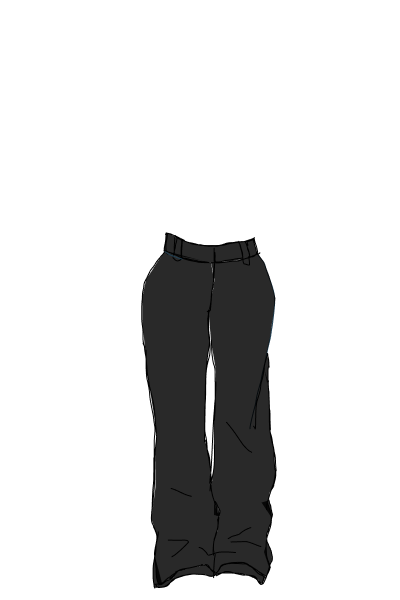
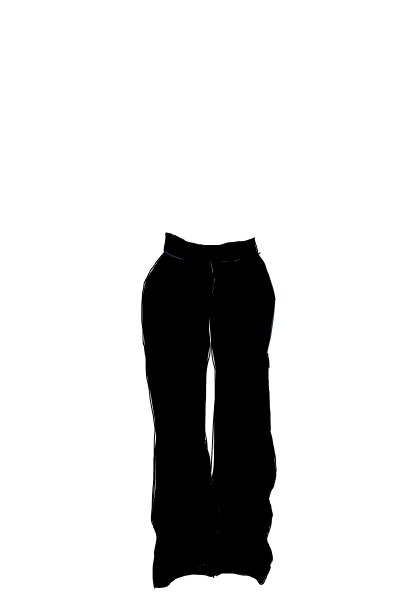
rendered outfit on top of character's body using conditonal rendering and use states

Changed region(s): [[0.36, 0.39, 0.69, 0.99]]

diff --git a/client/src/pages/CreateCharacter.jsx b/client/src/pages/CreateCharacter.jsx
@@ -6,12 +6,13 @@ import HairApi from "../services/HairApi"
 import BottomApi from "../services/BottomApi"
 import TopApi from "../services/TopApi"
 import DressApi from "../services/DressApi"
+import { use } from "react";
 
 const CreateCharacters = () => {
 
     const [warning, setWarning] = useState(true);
-    const [options, setOptions] = useState([]);
-    const [skintone, setSkinTone] = useState("");
+    const [options, setOptions] = useState({items: [], setter: () => {}} );
+    const [skintone, setSkinTone] = useState("../public/assets/skinTone/base_body.png");
     const [hair, setHair] = useState("");
     const [top, setTop] = useState("");
     const [bottom, setBottom] = useState("");
@@ -28,11 +29,20 @@ const CreateCharacters = () => {
         return () => clearTimeout(timer)
 
     }, [])
+
+   
     
     const getSkinTones = async() => {
         try{
             const skins = await SkinApi.getAllSkins();
-            setOptions(skins)
+            setOptions(
+                {
+                    items: skins,
+                    setter: setSkinTone
+                }
+            );
+            console.log(options)
+            
         }
         catch (error){
             console.error(error)
@@ -43,7 +53,10 @@ const CreateCharacters = () => {
     const getHairs = async() => {
         try{
             const hairs = await HairApi.getAllHairs() ;
-            setOptions(hairs)
+            setOptions({
+                items: hairs,
+                setter: setHair
+            })
         }
         catch (error){
             console.error(error)
@@ -56,7 +69,10 @@ const CreateCharacters = () => {
     const getTops = async() => {
         try{
             const tops = await TopApi.getAllTops();
-            setOptions(tops)
+            setOptions({
+                items: tops,
+                setter: setTop
+            })
         }
         catch(error){
             console.error(error)
@@ -66,7 +82,10 @@ const CreateCharacters = () => {
     const getBottoms = async() => {
         try{
             const bottoms = await BottomApi.getAllBottoms()
-            setOptions(bottoms)
+            setOptions({
+                items: bottoms,
+                setter: setBottom
+            })
         }
         catch(error){
             console.error(error)
@@ -76,7 +95,11 @@ const CreateCharacters = () => {
     const getDresses = async() => {
         try{
             const dresses =await  DressApi.getAllDresses()
-            setOptions(dresses)
+            setOptions(
+                {
+                    items: dresses,
+                    setter: setDress
+                })
         }
         catch(error){
             console.error(error)
@@ -91,7 +114,11 @@ const CreateCharacters = () => {
         <div id="create_character">
             <div id="character_preview_background">
                 <div id="Character_preview">
-                    <img src="../public/assets/skinTone/base_body.png" alt="chracter preview"/>
+                        <img src={skintone} alt="chracter preview" className="body"/> 
+                        {hair && <img src = {hair} alt="hair" className="hair"/>}  
+                        {top && <img src={top} alt="top" className="top"/>}   
+                        {bottom && <img src={bottom} alt="bottom" className="bottom"/>}   
+                        {dress && <img src={dress} alt="dress" className="dress"/>}           
                 </div>
             </div>
            
@@ -109,10 +136,12 @@ const CreateCharacters = () => {
                     <img src="../public/assets/icons/skintone_icon.png" alt="skin tone icon" onClick={getSkinTones}/>
                       <p>Skin tone</p>
                 </div>
+                
                 <div className="icons">
                     <img src="../public/assets/icons/hair_icon.png" alt="hair icon" onClick={getHairs}/>
                     <p>Hair</p>
                 </div>
+                
                 <div className="icons">
                     <img src="../public/assets/icons/shirt_icon.png" alt="top icon" onClick={getTops}/>
                     <p>Top</p>
@@ -125,11 +154,12 @@ const CreateCharacters = () => {
                     <img src="../public/assets/icons/dress_icon.png" alt="dress icon" onClick={getDresses} />
                     <p>Dress</p>
                 </div>
+            
             </div>
             <div id="options_display">
-                {options.map(option => (
+                {options.items.map(option => (
                     <div className="single_option">
-                     <img src={option.image}></img>
+                     <img src={option.image} onClick = {() => options.setter(option.image)}></img>
                     <p>{option.name}</p>
                     </div>
                    

diff --git a/client/src/css/Create_Character.css b/client/src/css/Create_Character.css
@@ -84,6 +84,7 @@ html {
 }
 
 #character_preview_background{
+    position: relative;
     background-color: rgba(255, 255, 255, 0.74);
     height: 80vh;
     border-radius: 20px;
@@ -100,3 +101,22 @@ html {
     align-items:  center;
     flex-shrink: 0;
 }
+
+#Character_preview{
+    position: relative;
+    display: inline-block;
+  
+}
+
+.body{
+     display: block;
+     z-index: 2;
+}
+
+.hair, .top, .bottom, .dress {
+    position: absolute;
+    z-index: 10;
+    top: 0px;     
+    left: 0px;     
+}
+
